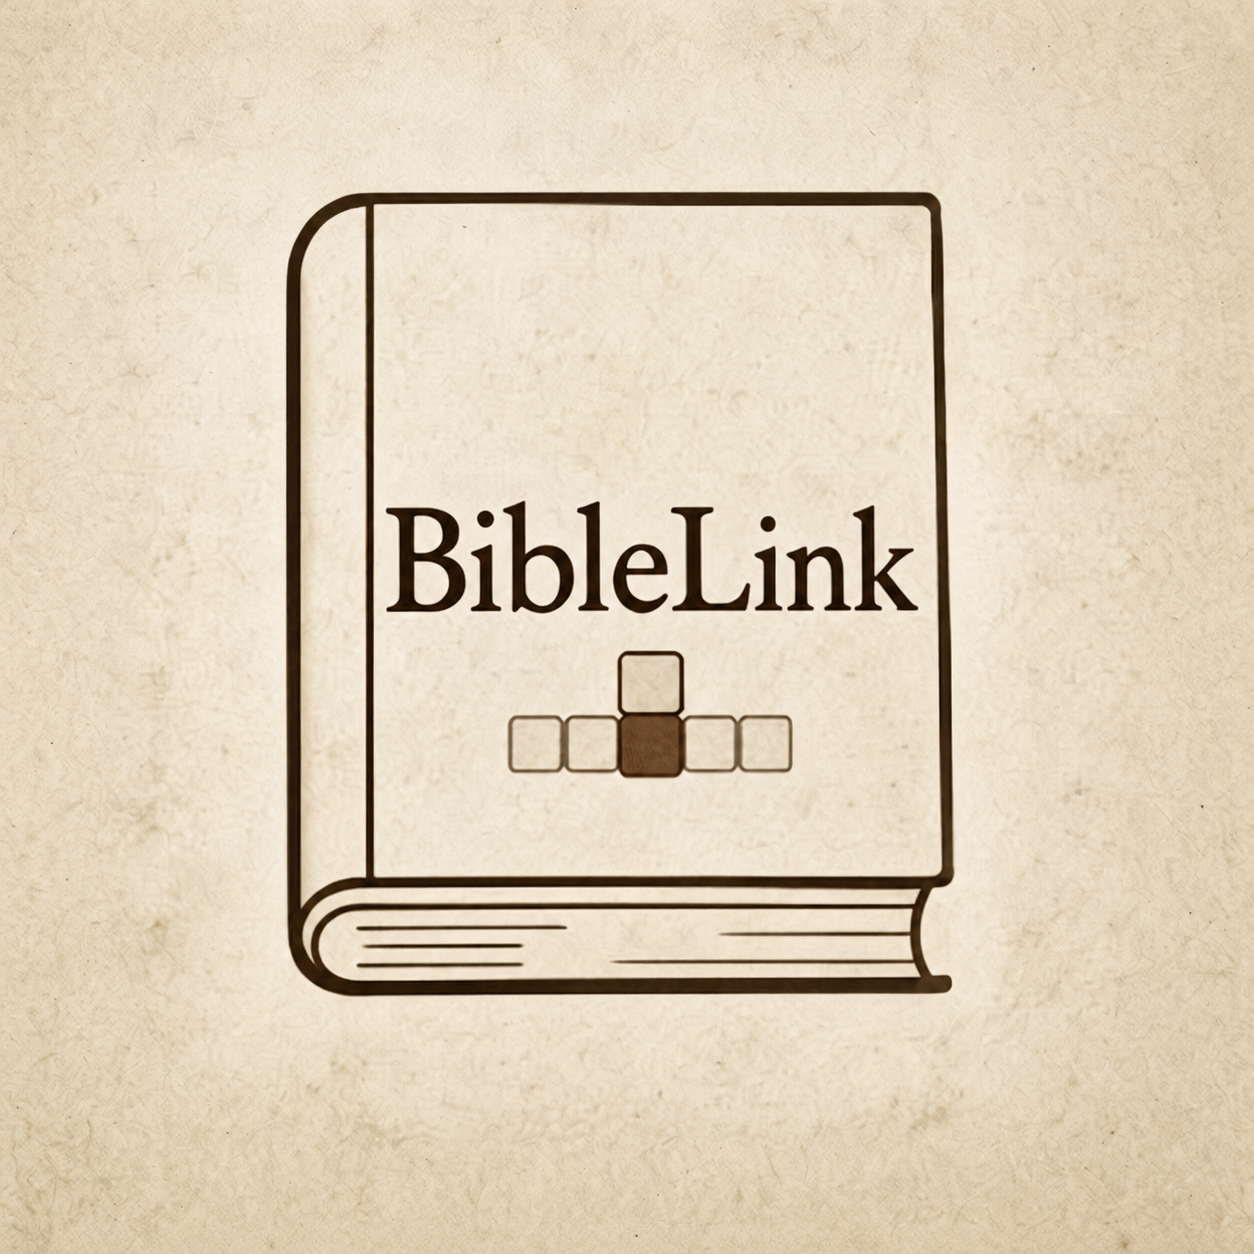
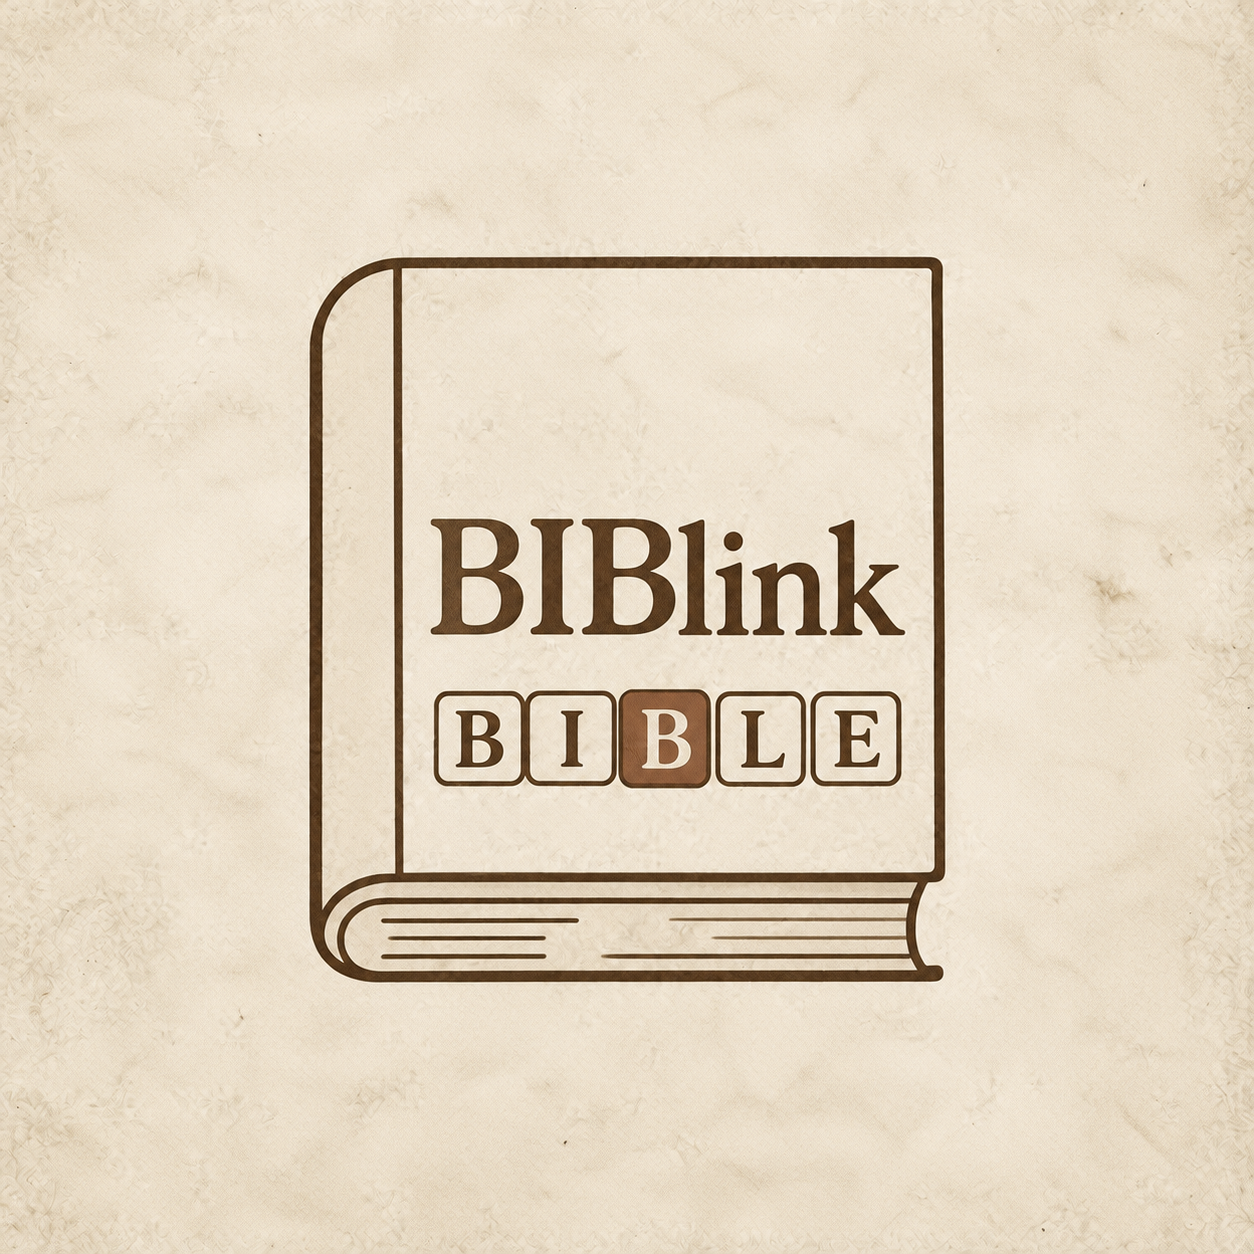
Apply refreshed brand assets
Use the updated icon and logo images across native app resources and web export assets.

Generated with [Devin](https://devin.ai)

diff --git a/scripts/createWordPage.js b/scripts/createWordPage.js
@@ -2,6 +2,10 @@ const fs = require('fs');
 const path = require('path');
 
 const distDir = path.join(__dirname, '..', 'dist');
+const assetsDir = path.join(__dirname, '..', 'assets');
+for (const asset of ['ICON.png', 'ICON_NOBG.png', 'BG.png']) {
+  fs.copyFileSync(path.join(assetsDir, asset), path.join(distDir, asset));
+}
 const source = fs.readFileSync(path.join(distDir, 'index.html'), 'utf8');
 const wordDir = path.join(distDir, 'word');
 
